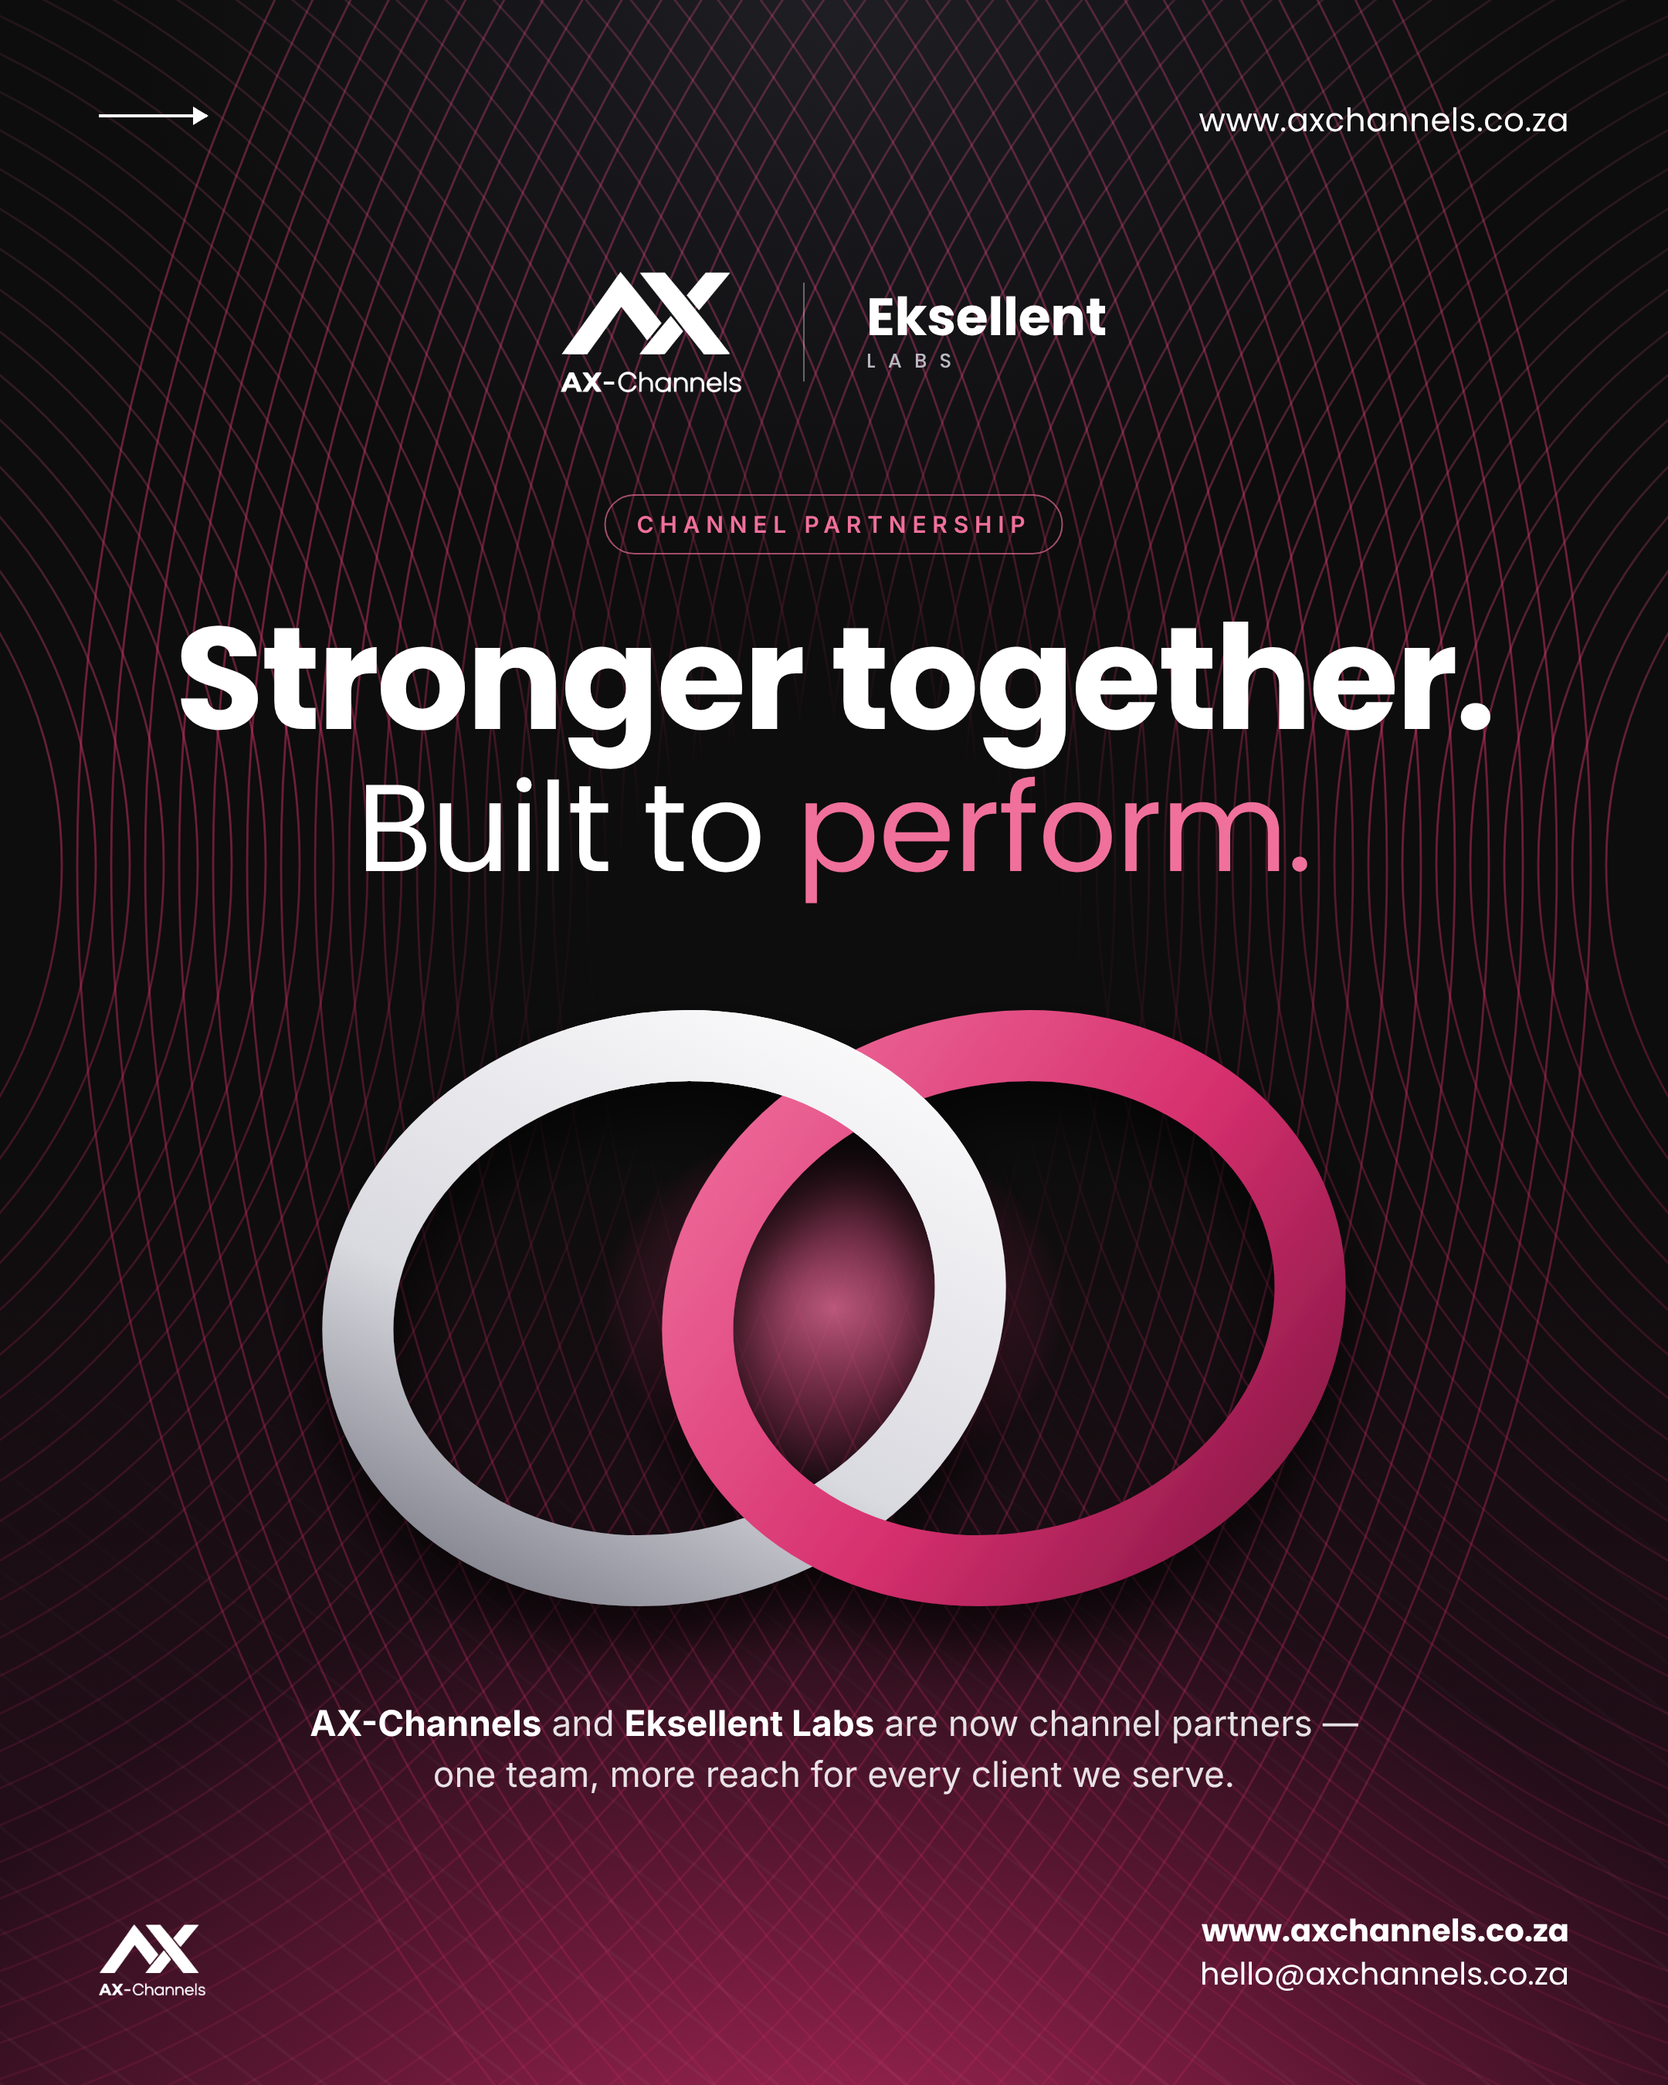
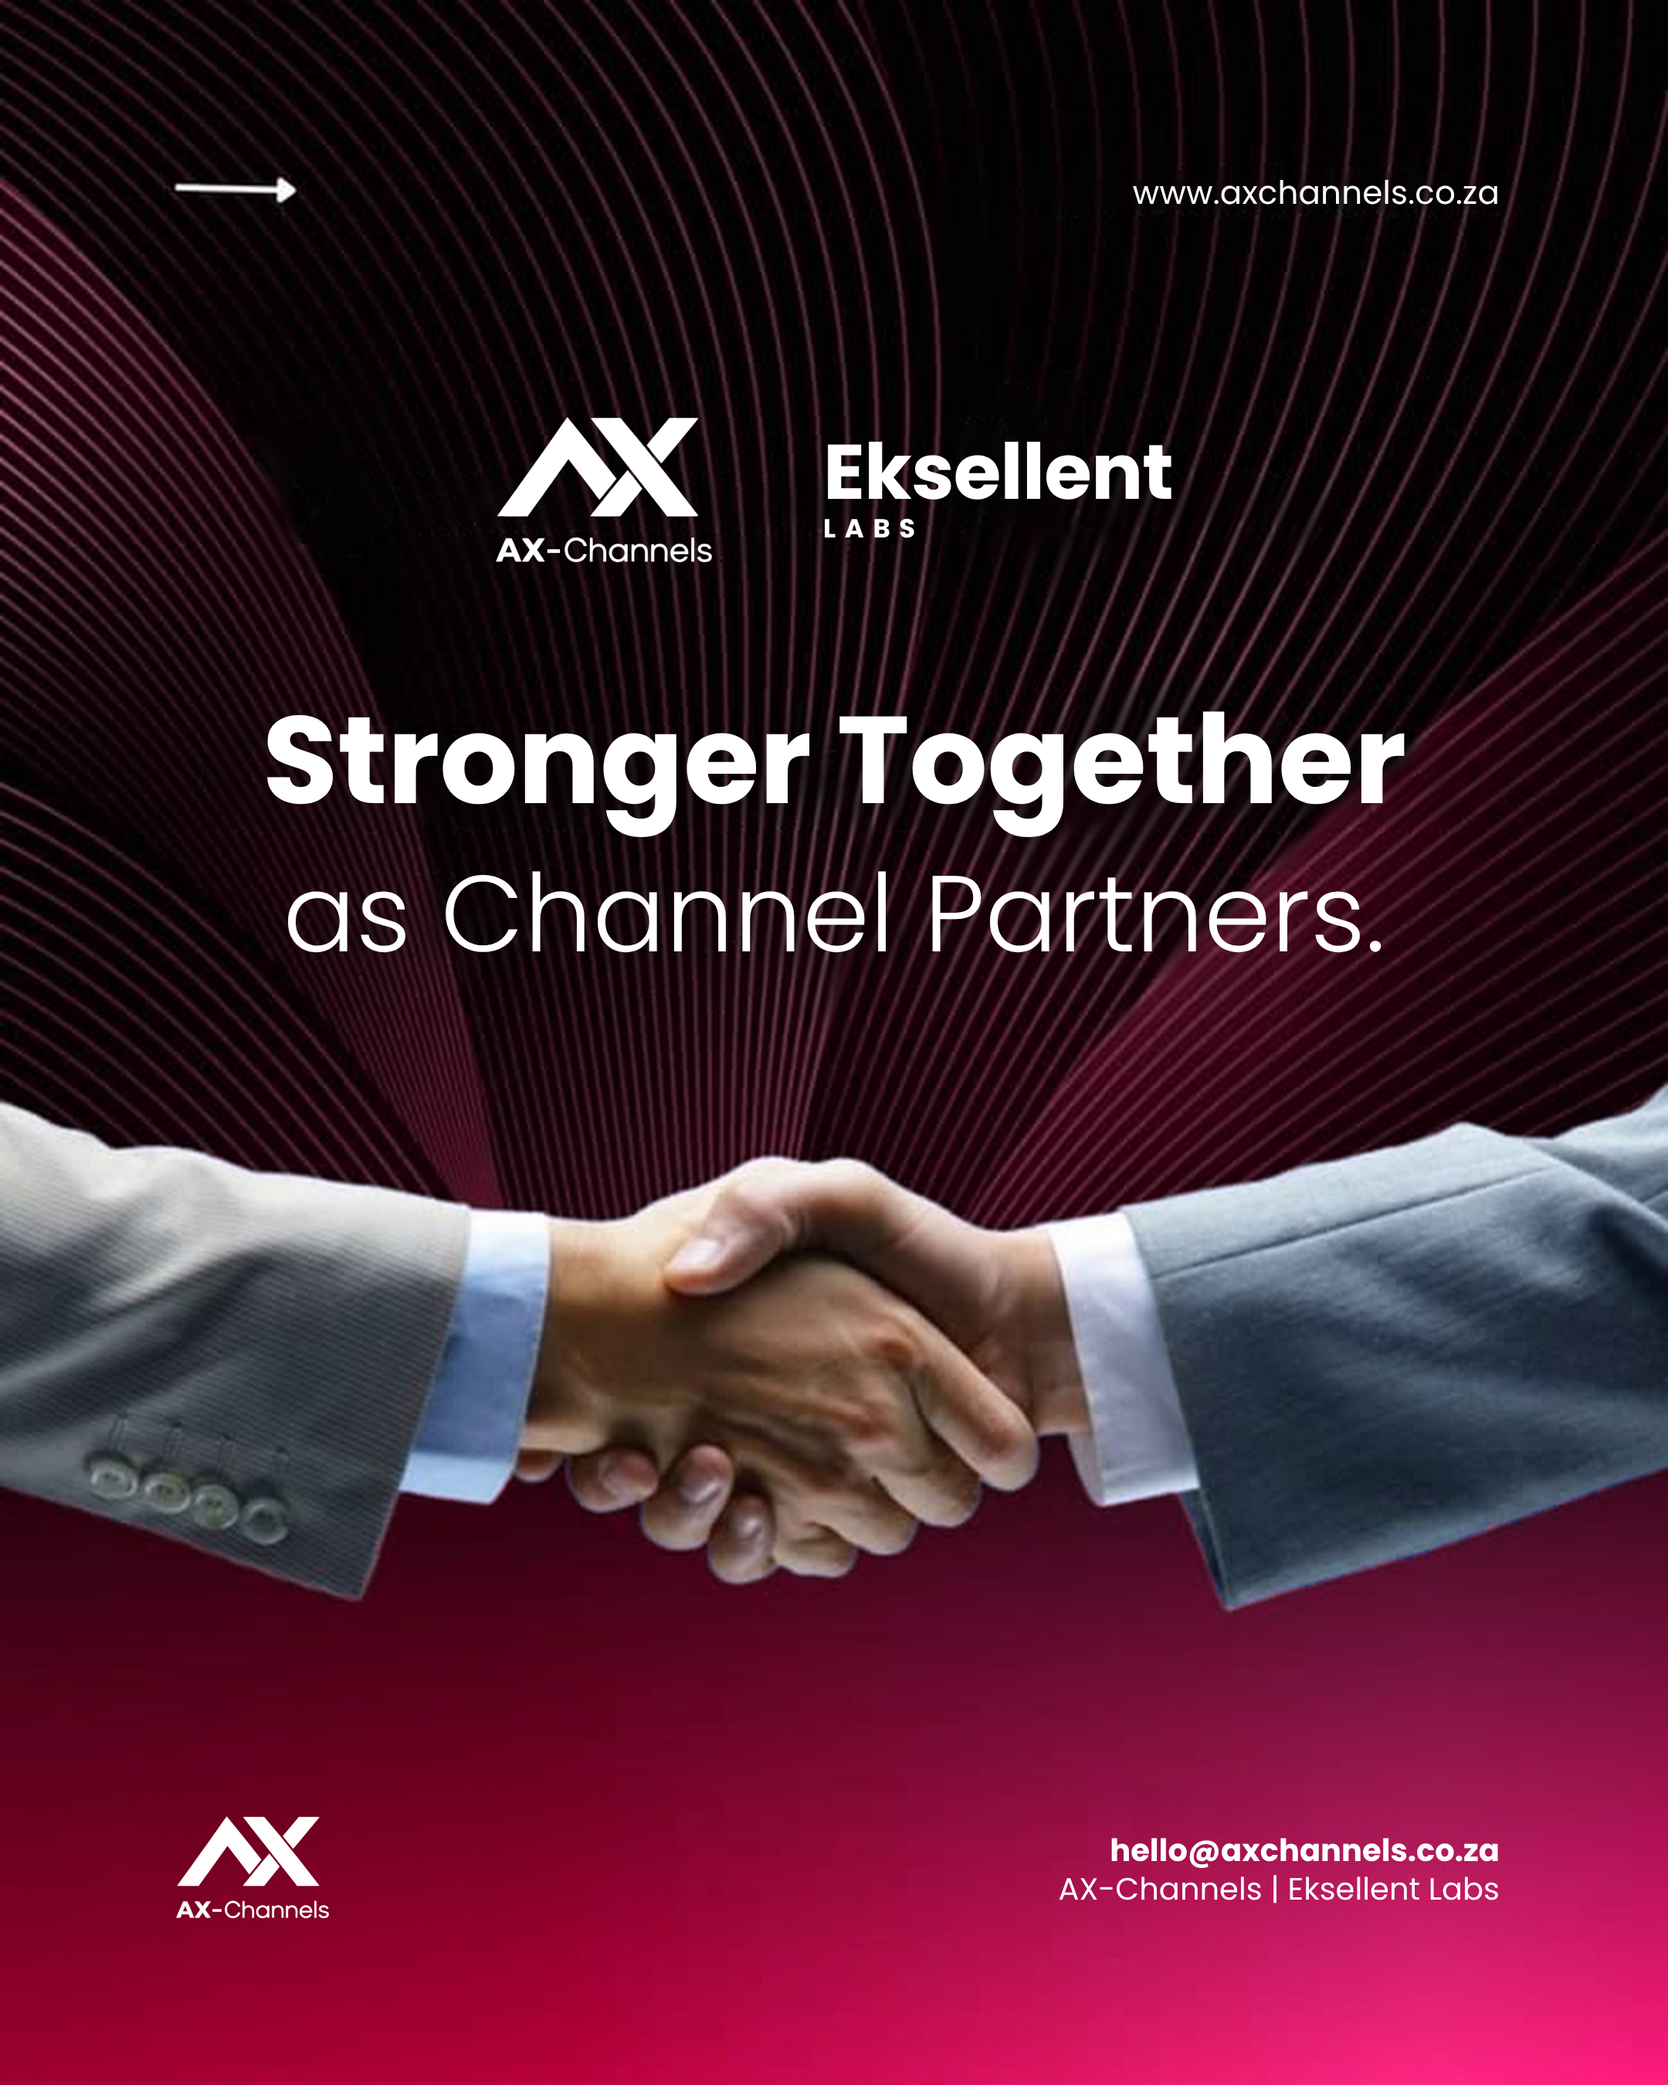
Rebuild the partnership poster on the uploaded reference as designed
The poster now keeps the reference exactly - line field, handshake,
gradient, arrow, layout - and changes only colour and wording. A script
shifts the purple to AX-Channels magenta (people untouched) and inpaints
out the old copy; the new logos and headline sit in the reference's own
positions and sizes, in Poppins.

Claude-Session: https://claude.ai/code/session_01T97japXkaKvk3Z86ybZW1V

diff --git a/posters/src/ax-eksellent-partnership.html b/posters/src/ax-eksellent-partnership.html
@@ -1,78 +1,34 @@
 <!doctype html><html lang="en"><head><meta charset="utf-8"><title>AX-Channels × Eksellent Labs — channel partnership</title>
 <link rel="stylesheet" href="base.css">
 <style>
-/* AX-Channels kit tokens (tools/brand/system.py): ink #0C0C0C, magenta #D62F6C, Poppins + Inter */
-@font-face{font-family:'Poppins';src:url(../assets/poppins-400.woff2) format('woff2');font-weight:300 400}
-@font-face{font-family:'Poppins';src:url(../assets/poppins-500.woff2) format('woff2');font-weight:500}
+/* The uploaded reference, kept as designed. tools-recolour-reference.py turns its purple
+   into AX-Channels magenta and lifts out the old wording; this page sets the new wording
+   in the same places, at the same sizes, in Poppins (the AX-Channels face, and the
+   reference's own). Positions are the reference's, scaled 736 → 1080 (×1.467). */
+@font-face{font-family:'Poppins';src:url(../assets/poppins-300.woff2) format('woff2');font-weight:300}
+@font-face{font-family:'Poppins';src:url(../assets/poppins-400.woff2) format('woff2');font-weight:400}
 @font-face{font-family:'Poppins';src:url(../assets/poppins-700.woff2) format('woff2');font-weight:600 700}
-@font-face{font-family:'Poppins';src:url(../assets/poppins-800.woff2) format('woff2');font-weight:800}
-:root{--ink:#0C0C0C;--graphite:#17171B;--magenta:#D62F6C;--mag-deep:#B02458;--mag-light:#F06E9A;--silver:#B9B9C2}
-body{font-family:'Inter',sans-serif;background:var(--ink);color:#fff}
-.bg{position:absolute;inset:0;background:
-  radial-gradient(ellipse 80% 45% at 50% 108%,rgba(214,47,108,.75),rgba(176,36,88,.35) 45%,transparent 75%),
-  radial-gradient(ellipse 60% 40% at 50% 0%,#1d1d23,transparent 70%),
-  linear-gradient(180deg,#0C0C0C,#0C0C0C 55%,#2a0d1b 100%)}
-.arcs{position:absolute;inset:0;background:url(../assets/ax-arcs.svg) center/100% 100%;opacity:.9;
-  -webkit-mask-image:radial-gradient(ellipse 46% 40% at 50% 47%,transparent 30%,#000 75%)}
-.stripes{position:absolute;inset:0;background-image:repeating-linear-gradient(38.4deg,rgba(255,255,255,.035) 0 2px,transparent 2px 26px);
-  -webkit-mask-image:linear-gradient(180deg,transparent 60%,#000)}
-.arrow{left:64px;top:74px;width:70px;height:2px;background:#fff}
-.arrow:after{content:"";position:absolute;right:-1px;top:-5px;border-left:10px solid #fff;border-top:6px solid transparent;border-bottom:6px solid transparent}
-.url{right:64px;top:62px;font-family:'Poppins';font-size:21px;font-weight:400;letter-spacing:.01em}
-/* the two logos, as in the reference: one lockup each, a hairline between */
-.logos{left:0;right:0;top:176px;display:flex;justify-content:center;align-items:center;gap:40px}
-.logos .ax{height:78px}
-.logos .ax img{height:100%;display:block}
-.logos .x{width:1px;height:64px;background:rgba(255,255,255,.35)}
-
-/* partner slot: typeset name until the Eksellent Labs logo file is supplied */
-.ek{font-family:'Poppins';color:#fff;line-height:.95;text-align:left}
-.ek b{display:block;font-size:34px;font-weight:700;letter-spacing:-.005em}
-.ek span{display:block;font-size:13px;font-weight:500;letter-spacing:.62em;text-transform:uppercase;color:var(--silver);margin-top:7px}
-.pill{left:50%;top:320px;transform:translateX(-50%);font-size:15px;font-weight:600;letter-spacing:.26em;text-transform:uppercase;border:1px solid rgba(240,110,154,.65);color:var(--mag-light);padding:9px 20px;border-radius:999px;white-space:nowrap}
-h1{left:0;right:0;top:392px;text-align:center;font-family:'Poppins';font-weight:700;font-size:94px;line-height:1;letter-spacing:-.02em}
-h1 span{display:block;font-weight:300;font-size:80px;letter-spacing:-.01em;margin-top:10px}
-h1 em{font-style:normal;color:var(--mag-light)}
-/* hero object: two linked rings, the reference's handshake as a joint */
-.rings{left:140px;top:612px;width:800px;height:470px}
-.rings svg{width:100%;height:100%;overflow:visible}
-.line{left:0;right:0;top:1100px;text-align:center;font-size:23px;line-height:1.45;color:rgba(255,255,255,.88)}
-.line b{color:#fff;font-weight:700}
-.foot{left:64px;right:64px;bottom:58px;display:flex;align-items:flex-end;justify-content:space-between}
-.foot .ax{height:46px}.foot .ax img{height:100%;display:block}
-.foot .r{text-align:right;font-family:'Poppins';font-size:20px;line-height:1.4}
-.foot .r b{font-weight:700}
+body{font-family:'Poppins',sans-serif;color:#fff;background:#0C0C0C}
+.ground{position:absolute;inset:0;background:url(../assets/partnership-ground.png) center/cover}
+.url{right:109px;top:109px;font-size:21px;font-weight:400;letter-spacing:.005em}
+.logos{left:0;right:0;top:270px;display:flex;justify-content:center;align-items:center;gap:72px}
+.logos .ax{height:94px}.logos .ax img{height:100%;display:block}
+.ek{line-height:.92}
+.ek b{display:block;font-size:50px;font-weight:700;letter-spacing:-.01em}
+.ek span{display:block;font-size:17px;font-weight:700;letter-spacing:.34em;text-transform:uppercase;margin-top:6px}
+h1{left:0;right:0;top:452px;text-align:center;font-weight:700;font-size:80px;line-height:1.02;letter-spacing:-.005em}
+h1 span{display:block;font-weight:300;font-size:70px;letter-spacing:0;margin-top:22px}
+.flogo{left:114px;top:1176px;height:66px}.flogo img{height:100%;display:block}
+.fr{right:109px;top:1186px;text-align:right;font-size:20px;line-height:1.25}
+.fr b{display:block;font-weight:700}
 </style></head><body><div class="poster">
-<div class="bg"></div><div class="arcs"></div><div class="stripes"></div>
-<div class="abs arrow"></div>
+<div class="ground"></div>
 <div class="abs url">www.axchannels.co.za</div>
 <div class="abs logos">
   <div class="ax"><img src="../assets/ax-logo-white.png" alt="AX-Channels"></div>
-  <div class="x"></div>
   <div class="ek"><b>Eksellent</b><span>Labs</span></div>
 </div>
-<div class="abs pill">Channel partnership</div>
-<h1 class="abs">Stronger together.<span>Built to <em>perform.</em></span></h1>
-<div class="abs rings"><svg viewBox="0 0 800 470">
-  <defs>
-    <linearGradient id="gm" x1="0" y1="0" x2="1" y2="1"><stop offset="0" stop-color="#F06E9A"/><stop offset=".55" stop-color="#D62F6C"/><stop offset="1" stop-color="#7d1440"/></linearGradient>
-    <linearGradient id="gw" x1="1" y1="0" x2="0" y2="1"><stop offset="0" stop-color="#ffffff"/><stop offset=".6" stop-color="#d9d9e0"/><stop offset="1" stop-color="#6c6c78"/></linearGradient>
-    <radialGradient id="glow"><stop offset="0" stop-color="#F06E9A" stop-opacity=".75"/><stop offset="1" stop-color="#D62F6C" stop-opacity="0"/></radialGradient>
-    <filter id="sh" x="-30%" y="-30%" width="160%" height="160%"><feDropShadow dx="0" dy="22" stdDeviation="18" flood-color="#000" flood-opacity=".7"/></filter>
-    <!-- the white ring passes over the magenta ring in its upper crossing -->
-    <clipPath id="over"><circle cx="413.6" cy="93.8" r="150"/></clipPath>
-  </defs>
-  <ellipse cx="400" cy="235" rx="150" ry="120" fill="url(#glow)"/>
-  <g filter="url(#sh)" fill="none" stroke-width="46">
-    <ellipse cx="290" cy="235" rx="200" ry="168" stroke="url(#gw)" transform="rotate(-14 290 235)"/>
-    <ellipse cx="510" cy="235" rx="200" ry="168" stroke="url(#gm)" transform="rotate(-14 510 235)"/>
-    <ellipse cx="290" cy="235" rx="200" ry="168" stroke="url(#gw)" transform="rotate(-14 290 235)" clip-path="url(#over)"/>
-  </g>
-</svg></div>
-<p class="abs line"><b>AX-Channels</b> and <b>Eksellent Labs</b> are now channel partners —<br>one team, more reach for every client we serve.</p>
-<div class="abs foot">
-  <div class="ax"><img src="../assets/ax-logo-white.png" alt="AX-Channels"></div>
-  <div class="r"><b>www.axchannels.co.za</b><br>hello@axchannels.co.za</div>
-</div>
-<div class="grain" style="--grain:.06"></div>
+<h1 class="abs">Stronger Together<span>as Channel Partners.</span></h1>
+<div class="abs flogo"><img src="../assets/ax-logo-white.png" alt="AX-Channels"></div>
+<div class="abs fr"><b>hello@axchannels.co.za</b>AX-Channels | Eksellent Labs</div>
 </div></body></html>

diff --git a/posters/tools-recolour-reference.py b/posters/tools-recolour-reference.py
@@ -1,0 +1,58 @@
+"""Turn the uploaded partnership reference into a clean AX-Channels ground.
+
+Keeps the poster exactly as designed — the curved line field, the handshake, the
+gradient, the arrow — and changes only two things:
+  1. the purple (hue 230-300) becomes AX-Channels magenta (#D62F6C, hue 338);
+     the suits and shirt cuffs (blue-grey, hue ~215) and the skin are untouched;
+  2. the old white wording and logos are lifted out by inpainting, so new copy
+     can be set in exactly the same places.
+Output: assets/partnership-ground.png at 1080 x 1350.
+"""
+import cv2, numpy as np
+src = cv2.imread('refs/partnership-reference.jpeg')            # 736 x 920, BGR
+hsv = cv2.cvtColor(src, cv2.COLOR_BGR2HSV_FULL).astype(np.float32)   # H in 0..255
+H = hsv[..., 0] * 360 / 256
+S = hsv[..., 1] / 255
+# weight: 1 inside the purple band, ramping off at its edges, 0 for low-saturation pixels
+w = np.clip((H - 228) / 12, 0, 1) * np.clip((305 - H) / 12, 0, 1) * np.clip((S - .12) / .15, 0, 1)
+target = 338 + (H - 268) * 0.25                               # keep a little of the original variation
+Hn = H + (target - H) * w
+hsv[..., 0] = (Hn % 360) * 256 / 360
+hsv[..., 1] = np.clip(hsv[..., 1] * (1 + .05 * w), 0, 255)
+out = cv2.cvtColor(hsv.astype(np.uint8), cv2.COLOR_HSV2BGR_FULL)
+
+# the old copy: white, unsaturated pixels inside these boxes (native coordinates)
+boxes = [(440, 68, 672, 100),    # web address, top right
+         (98, 158, 602, 278),    # the two partner logos
+         (78, 298, 664, 452),    # the two-line headline
+         (66, 792, 292, 852),    # footer logo
+         (505, 798, 672, 852)]   # footer contact
+hsv8 = cv2.cvtColor(src, cv2.COLOR_BGR2HSV)
+bright = ((hsv8[..., 2] > 95) & (hsv8[..., 1] < 120)).astype(np.uint8) * 255
+mask = np.zeros(bright.shape, np.uint8)
+for x0, y0, x1, y1 in boxes:
+    mask[y0:y1, x0:x1] = bright[y0:y1, x0:x1]
+mask = cv2.dilate(mask, np.ones((7, 7), np.uint8), iterations=1)
+# frequency-selective reconstruction carries the fine line field through the holes,
+# where a diffusion fill would leave dark ghosts of the old letters
+valid = np.where(mask > 0, 0, 255).astype(np.uint8)
+clean = np.zeros_like(out)
+cv2.xphoto.inpaint(out, valid, clean, cv2.xphoto.INPAINT_FSR_BEST)
+# the footer sits on a plain gradient: fill those two boxes whole, smoothly
+# (a vertical gradient), so each column is blended between the rows just above and below
+for x0, y0, x1, y1 in boxes[3:]:
+    y0, y1, x0, x1 = y0 - 6, y1 + 6, x0 - 6, x1 + 6
+    top = clean[y0 - 3:y0, x0:x1].astype(np.float32).mean(0)
+    bot = clean[y1:y1 + 3, x0:x1].astype(np.float32).mean(0)
+    t = np.linspace(0, 1, y1 - y0)[:, None, None]
+    fill = top[None] * (1 - t) + bot[None] * t
+    # smooth across columns too, so no single column shows a seam
+    fill = cv2.GaussianBlur(fill, (0, 0), sigmaX=4, sigmaY=.1)
+    clean[y0:y1, x0:x1] = np.clip(fill + np.random.normal(0, 1.2, fill.shape), 0, 255).astype(np.uint8)
+
+big = cv2.resize(clean, (1080, 1350), interpolation=cv2.INTER_LANCZOS4)
+blur = cv2.GaussianBlur(big, (0, 0), 1.2)
+big = cv2.addWeighted(big, 1.35, blur, -.35, 0)                # gentle unsharp after the upscale
+cv2.imwrite('assets/partnership-ground.png', big)
+cv2.imwrite('/tmp/claude-0/-home-user/52f9107b-1e4e-5329-bf59-ff5cf7f617d5/scratchpad/ax/mask.png', mask)
+print('ok', int(mask.astype(bool).sum()))

diff --git a/posters/README.md b/posters/README.md
@@ -178,3 +178,22 @@ Eksellent Labs are now channel partners — one team, more reach for every clien
   phone number is used; the kit's is `+27 00 000 0000`.
 - **The benefit line** describes the partnership generally. Replace it with what the
   partnership actually offers once that is agreed.
+
+**Revision (2026-10-25): the reference, kept as designed.** At the owner's request the
+poster now *is* the uploaded reference — its curved line field, handshake photograph,
+gradient, arrow and layout — with only the colour and the words changed.
+`tools-recolour-reference.py` shifts the reference's purple (hue 230–300) to AX-Channels
+magenta, leaving the suits, cuffs and skin untouched, and lifts out the old wording and
+logos with frequency-selective inpainting so the line field runs on underneath
+(`assets/partnership-ground.png`). The page then sets the new copy in the reference's
+own positions and sizes, in Poppins:
+
+- Logos: AX-Channels · Eksellent Labs (typeset until its logo is supplied)
+- Headline: **Stronger Together** / as Channel Partners.
+- Top right: www.axchannels.co.za · Footer: AX-Channels logo, hello@axchannels.co.za,
+  "AX-Channels | Eksellent Labs"
+
+The photograph comes from the 736 × 920 reference, upscaled to 1080 × 1350, so it is a
+little softer than the type. For print or a larger format, use the original high-resolution
+image the reference was made from. Re-run with `python3 tools-recolour-reference.py`
+(needs `opencv-contrib-python-headless`), then `node render.mjs ax-eksellent-partnership`.
